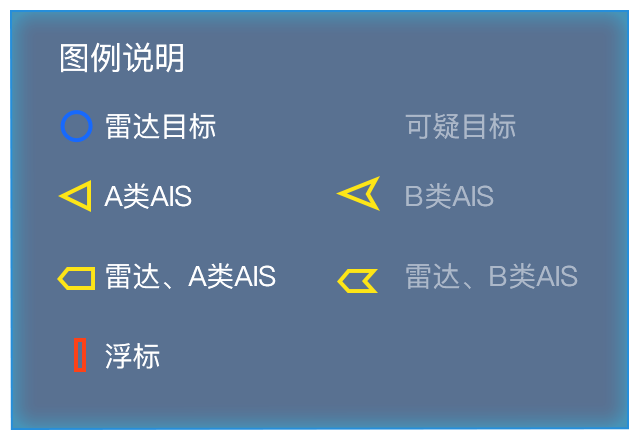
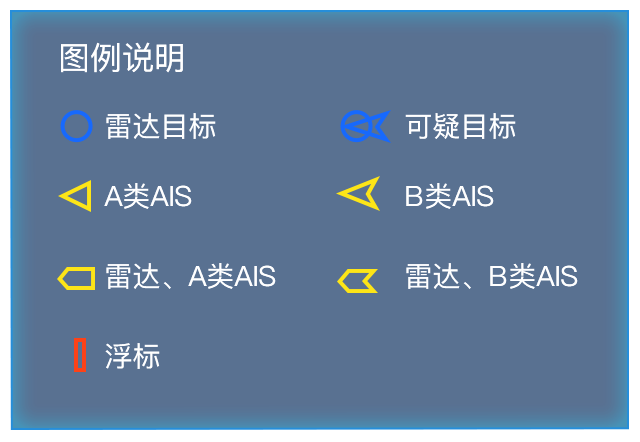
鹰觉stp类型

diff --git a/src/views/MapView/index.vue b/src/views/MapView/index.vue
@@ -135,7 +135,7 @@ export default {
     }
   },
   destroyed() {
-    this.socket && (this.socket.close())
+    this.socket && this.socket.close()
   },
   methods: {
     async getMarkerPoint() {
@@ -194,18 +194,18 @@ export default {
     },
     async getYJRegion() {
       const res = await getByRegion()
-      const points = res.result.targets
+      const points = res.result.targets?.filter((item) => item.stp != 0) || []
       renderYjPoints(points)
     },
     // getYJRegion() {
     //   const res = yjData
-    //   const points = res.result.targets
+    //   const points = res.result.targets?.filter((item) => item.stp != 0) || []
     //   renderYjPoints(points)
     // },
     changePoint(isYj) {
       removePointsLayer(isYj)
       if (isYj) {
-        this.socket && (this.socket.close())
+        this.socket && this.socket.close()
         this.getYJRegion()
       } else {
         this.initWebSocket()
@@ -218,7 +218,6 @@ export default {
           (feature) => feature
         )
         if (feature && feature.values_.isws_point) {
-          console.log(feature.values_.isws_point)
           const featureInfo = { ...feature.values_.isws_point }
           if (!featureInfo.name) {
             const params = {

diff --git a/src/utils/map.js b/src/utils/map.js
@@ -419,7 +419,7 @@ export const renderYjPoints = (points) => {
       new Style({
         image: new Icon({
           scale: 1.2,
-          src: chooseTypeIcon(item.type)
+          src: chooseYjTypeIcon(item.stp)
         })
       })
     )
@@ -540,6 +540,29 @@ const chooseTypeIcon = (type) => {
     duplicate_B: require('@/assets/image/type_icon/Unknown.png')
   }
   return obj[type] || require('@/assets/image/type_icon/Unknown.png')
+}
+
+// 根据点位类型渲染鹰觉点位图标
+const chooseYjTypeIcon = (stp) => {
+  let src = ''
+  switch (stp) {
+    case 1 || 30 || 100 || 101:
+      src = require('@/assets/image/yjtype_icon/leida.png')
+      break
+    case 10:
+      src = require('@/assets/image/yjtype_icon/AIS_A.png')
+      break
+    case 20:
+      src = require('@/assets/image/yjtype_icon/AIS_B.png')
+      break
+    case 11 || 110 || 111:
+      src = require('@/assets/image/yjtype_icon/ld.AIS_A.png')
+      break
+    case 21 || 120 || 121:
+      src = require('@/assets/image/yjtype_icon/ld.AIS_B.png')
+      break
+  }
+  return src
 }
 
 // 偏移值转换
